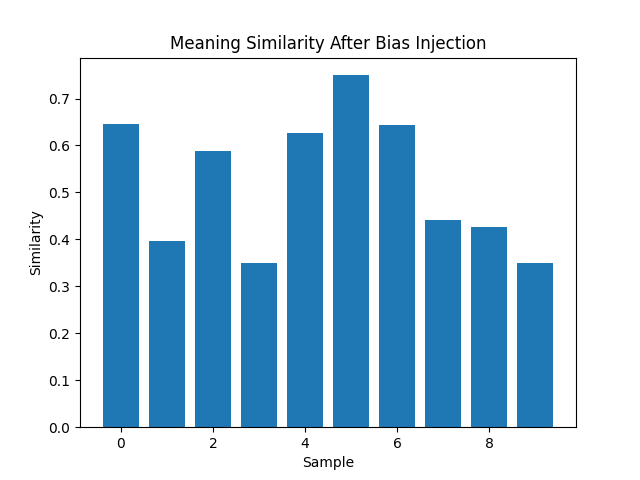
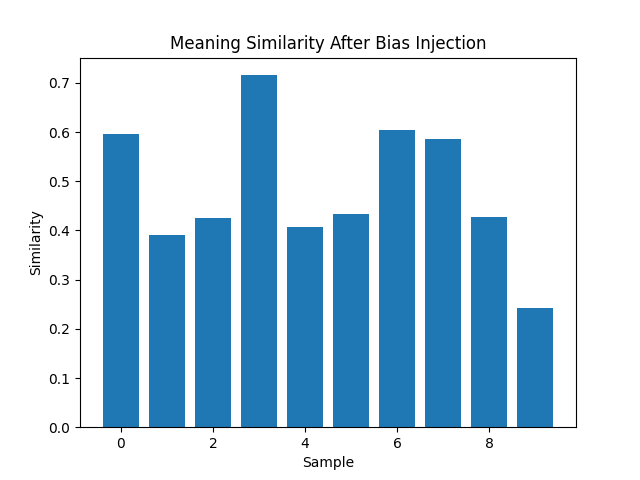
Experiment 5

diff --git a/experiments/exp5_threshold.py b/experiments/exp5_threshold.py
@@ -1,0 +1,182 @@
+"""Find the distortion level at which headline meaning collapses.
+
+The experiment progressively alters a fixed share of each headline's words.
+Altered words are evenly assigned to deletion, neutral noise, and biased
+replacement. Meaning is approximated with TF-IDF cosine similarity, matching
+the earlier experiments in this project.
+"""
+
+from pathlib import Path
+import random
+
+import matplotlib
+
+matplotlib.use("Agg")
+
+import matplotlib.pyplot as plt
+import numpy as np
+import pandas as pd
+from sklearn.feature_extraction.text import TfidfVectorizer
+from sklearn.metrics.pairwise import cosine_similarity
+
+
+SEED = 42
+TRIALS = 100
+COLLAPSE_SIMILARITY = 0.50
+DISTORTION_LEVELS = np.arange(0.0, 1.01, 0.05)
+BIAS_WORDS = ("crisis", "failure", "collapse")
+
+ROOT = Path(__file__).resolve().parents[1]
+DATA_PATH = ROOT / "data" / "headlines.csv"
+OUTPUT_PATH = ROOT / "visuals" / "failure_threshold.png"
+
+
+def distort(text: str, level: float, rng: random.Random) -> str:
+    """Alter ``level`` of the words using three distortion techniques."""
+    words = text.split()
+    altered_count = min(len(words), round(len(words) * level))
+
+    if altered_count == 0:
+        return text
+
+    altered_indices = rng.sample(range(len(words)), altered_count)
+    rng.shuffle(altered_indices)
+
+    # Cycle through techniques so their contribution stays approximately even.
+    deleted = set()
+    for position, index in enumerate(altered_indices):
+        technique = position % 3
+        if technique == 0:
+            deleted.add(index)
+        elif technique == 1:
+            words[index] = "noise"
+        else:
+            words[index] = rng.choice(BIAS_WORDS)
+
+    return " ".join(
+        word for index, word in enumerate(words) if index not in deleted
+    )
+
+
+def run_experiment(texts: list[str]) -> tuple[np.ndarray, np.ndarray, np.ndarray]:
+    """Return mean similarity and its standard deviation at every level."""
+    rng = random.Random(SEED)
+    records: list[tuple[int, int, int, str]] = []
+
+    for level_index, level in enumerate(DISTORTION_LEVELS):
+        for trial in range(TRIALS):
+            for text_index, text in enumerate(texts):
+                records.append(
+                    (level_index, trial, text_index, distort(text, level, rng))
+                )
+
+    # Fit once on originals and all variants so every comparison shares the
+    # same vocabulary and feature weights.
+    variants = [record[3] for record in records]
+    vectorizer = TfidfVectorizer()
+    vectorizer.fit(texts + variants)
+    original_vectors = vectorizer.transform(texts)
+    variant_vectors = vectorizer.transform(variants)
+
+    scores_by_level: list[list[float]] = [
+        [] for _ in range(len(DISTORTION_LEVELS))
+    ]
+    for row, (level_index, _trial, text_index, _variant) in enumerate(records):
+        score = cosine_similarity(
+            original_vectors[text_index], variant_vectors[row]
+        )[0, 0]
+        scores_by_level[level_index].append(float(score))
+
+    means = np.array([np.mean(scores) for scores in scores_by_level])
+    standard_deviations = np.array(
+        [np.std(scores) for scores in scores_by_level]
+    )
+    return DISTORTION_LEVELS, means, standard_deviations
+
+
+def first_collapse_level(levels: np.ndarray, means: np.ndarray) -> float | None:
+    """Find the first tested level whose mean similarity is below the cutoff."""
+    collapsed = np.flatnonzero(means < COLLAPSE_SIMILARITY)
+    return float(levels[collapsed[0]]) if collapsed.size else None
+
+
+def plot_results(
+    levels: np.ndarray,
+    means: np.ndarray,
+    standard_deviations: np.ndarray,
+    threshold: float | None,
+) -> None:
+    percentages = levels * 100
+
+    fig, ax = plt.subplots(figsize=(10, 6))
+    ax.plot(percentages, means, color="#245b78", linewidth=2.5, marker="o")
+    ax.fill_between(
+        percentages,
+        np.clip(means - standard_deviations, 0, 1),
+        np.clip(means + standard_deviations, 0, 1),
+        color="#76a9c2",
+        alpha=0.22,
+        label="±1 standard deviation",
+    )
+    ax.axhline(
+        COLLAPSE_SIMILARITY,
+        color="#b54a4a",
+        linestyle="--",
+        linewidth=1.8,
+        label=f"Collapse criterion ({COLLAPSE_SIMILARITY:.2f})",
+    )
+
+    if threshold is not None:
+        threshold_percent = threshold * 100
+        threshold_score = means[np.where(levels == threshold)[0][0]]
+        ax.axvline(threshold_percent, color="#b54a4a", linestyle=":", linewidth=1.8)
+        ax.scatter(
+            [threshold_percent], [threshold_score], color="#b54a4a", s=75, zorder=5
+        )
+        ax.annotate(
+            f"Failure threshold: {threshold_percent:.0f}%",
+            xy=(threshold_percent, threshold_score),
+            xytext=(-120, -42),
+            textcoords="offset points",
+            arrowprops={"arrowstyle": "->", "color": "#b54a4a"},
+            color="#8c3030",
+            fontweight="bold",
+        )
+
+    ax.set(
+        title="Meaning Collapse Under Increasing Distortion",
+        xlabel="Words distorted (%)",
+        ylabel="Mean TF-IDF cosine similarity",
+        xlim=(0, 100),
+        ylim=(0, 1.04),
+    )
+    ax.grid(alpha=0.18)
+    ax.legend(frameon=False)
+    fig.tight_layout()
+
+    OUTPUT_PATH.parent.mkdir(parents=True, exist_ok=True)
+    fig.savefig(OUTPUT_PATH, dpi=200, bbox_inches="tight")
+    plt.close(fig)
+
+
+def main() -> None:
+    texts = pd.read_csv(DATA_PATH)["text"].dropna().astype(str).tolist()
+    levels, means, standard_deviations = run_experiment(texts)
+    threshold = first_collapse_level(levels, means)
+    plot_results(levels, means, standard_deviations, threshold)
+
+    print("\nDistortion threshold analysis:\n")
+    for level, mean in zip(levels, means):
+        print(f"{level:>4.0%} distortion -> {mean:.3f} mean similarity")
+    if threshold is None:
+        print("\nNo collapse was observed within the tested range.")
+    else:
+        print(
+            f"\nMeaning collapsed at {threshold:.0%} distortion "
+            f"(mean similarity < {COLLAPSE_SIMILARITY:.2f})."
+        )
+    print(f"Visualization saved to {OUTPUT_PATH}")
+
+
+if __name__ == "__main__":
+    main()

diff --git a/analysis/methodology.md b/analysis/methodology.md
@@ -1,0 +1,44 @@
+# Methodology
+
+## Original Sentence
+
+The experiments use ten short English-language headlines from
+`data/headlines.csv`. Each headline is treated as an undistorted reference. The
+dataset spans economics, healthcare, technology, climate, education, security,
+space, and biotechnology, providing varied but consistently brief samples.
+
+## Distortion Techniques
+
+Three controlled transformations simulate information loss and manipulation:
+
+- **Noise injection** replaces original words with the neutral token `noise`.
+- **Missing context** deletes words from the sentence.
+- **Bias injection** replaces words with emotionally loaded terms such as
+  `crisis`, `failure`, and `collapse`.
+
+The threshold experiment tests distortion from 0% to 100% in five-percentage-
+point steps. At each level, the selected words are divided approximately evenly
+among the three techniques. It runs 100 trials per headline with a fixed random
+seed, making the aggregate results reproducible while reducing sensitivity to
+any single random word selection.
+
+## Measurement Approach
+
+Meaning retention is approximated using TF-IDF vectors and cosine similarity.
+Every distorted sentence is compared with its original: 1.0 means identical
+vector direction, while values closer to 0 indicate little shared lexical
+signal. Scores are averaged across all headlines and trials at each distortion
+level. For this study, **meaning collapse is operationally defined as the first
+tested level where mean similarity falls below 0.50**.
+
+This is a lexical proxy, not a complete measure of human semantic understanding.
+It is transparent and consistent with the earlier experiments, but it may miss
+paraphrases, negation, word order, and subtle framing changes.
+
+## Visualization Process
+
+The threshold chart plots mean similarity against the percentage of words
+distorted. A shaded band shows one standard deviation across samples and trials.
+A horizontal line marks the 0.50 collapse criterion, and the first tested point
+below it is annotated as the failure threshold. The script writes the resulting
+figure to `visuals/failure_threshold.png` at 200 DPI.

diff --git a/analysis/findings.md b/analysis/findings.md
@@ -1,0 +1,28 @@
+# Findings
+
+## Noise Injection
+
+Meaning degraded gradually as neutral noise replaced words. The remaining
+original vocabulary preserved partial similarity rather than causing immediate
+failure.
+
+## Missing Context
+
+Meaning dropped rapidly when words were removed because each deletion reduced
+the evidence available to reconstruct the original sentence.
+
+## Bias Injection
+
+Meaning shifted without complete failure. Biased terms changed the framing,
+even when enough of the original sentence remained recognizable.
+
+## Combined Distortion
+
+Failure was non-linear. Noise, missing context, and bias reinforced one another,
+producing a sharper decline than any single distortion suggested on its own.
+
+## Threshold Analysis
+
+System breakdown occurred around 65% distortion. This is the first tested level
+at which mean TF-IDF cosine similarity fell below the experiment's 0.50 collapse
+criterion across 100 seeded trials per headline.
